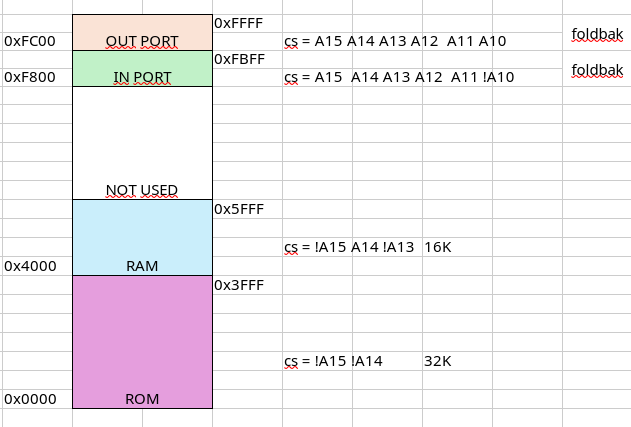
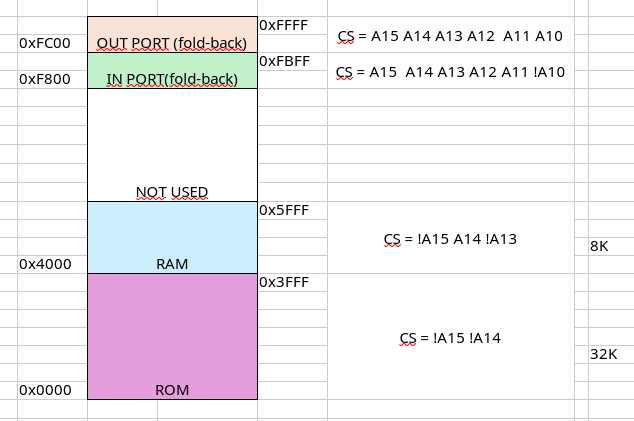
assignment3 correct new mem map

diff --git a/Assignments/Assigment_3/README.md b/Assignments/Assigment_3/README.md
@@ -88,3 +88,7 @@ The submission of the work consists of the submission of the answers to all the 
 
 After the delivery of the work, a date and time may be agreed with some group(s) to hold a discussion for the presentation and defense of the work carried out, situations that will be duly justified.
 
+[**Answers**](./Answers.md)
+
+
+
